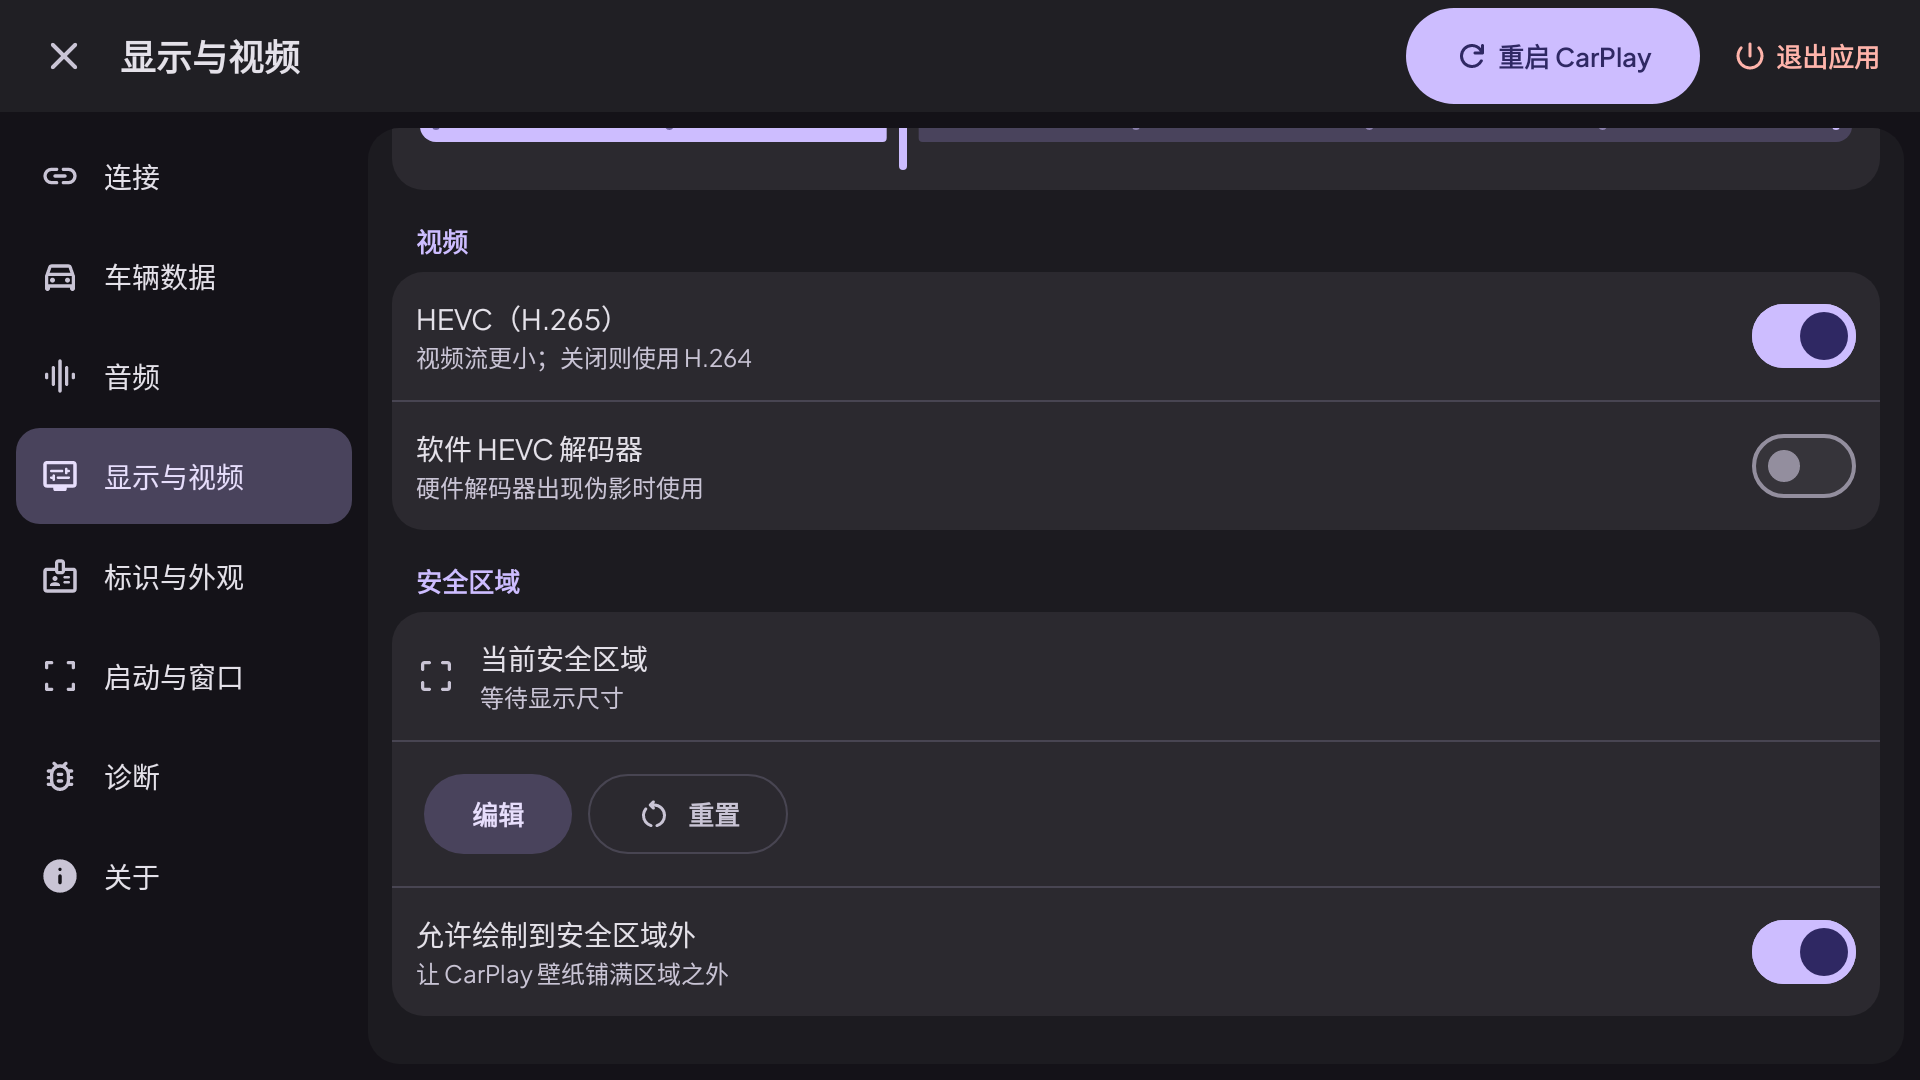
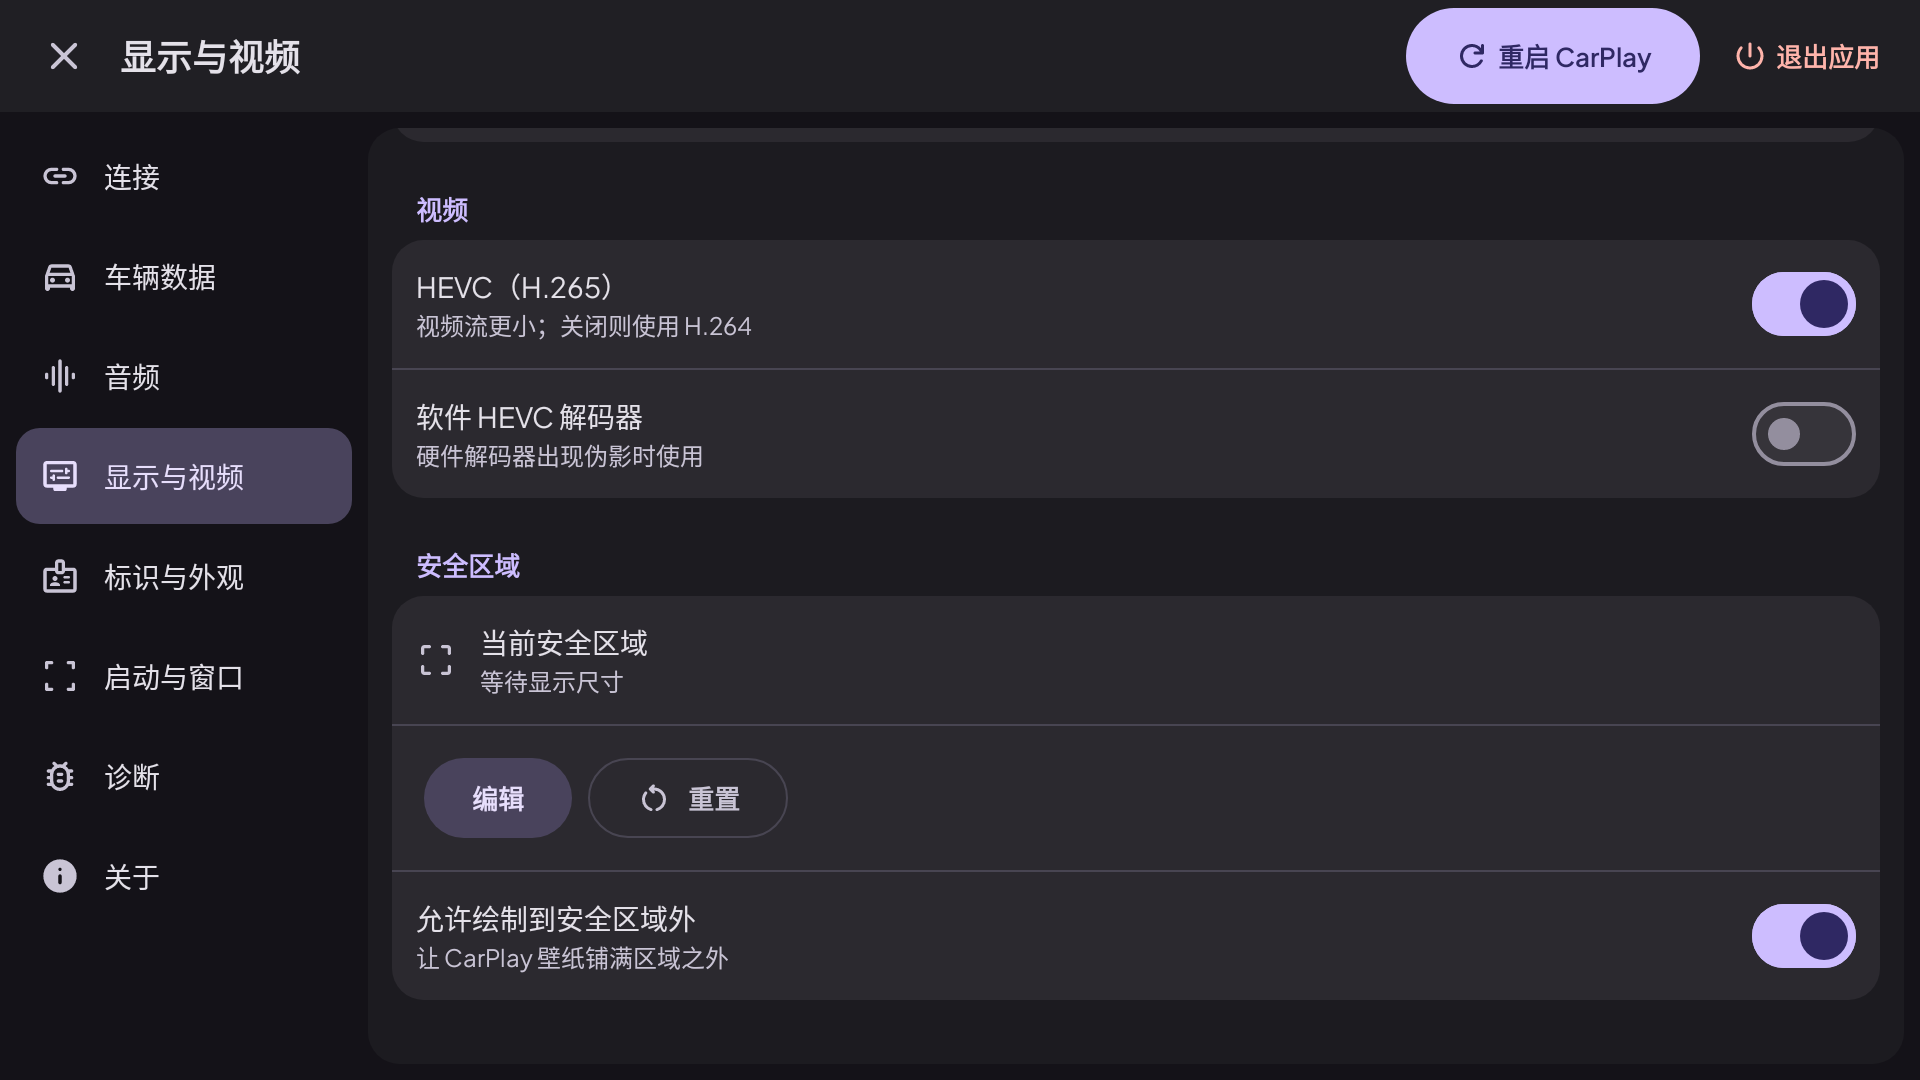
docs: publish corrected settings gallery and validation results [skip ci]

diff --git a/README.md b/README.md
@@ -212,6 +212,8 @@ Without the key, only an explicit `-Pxcertplay.allowUnsigned=true` can produce u
 
 ## Verification and feedback
 
+The [screenshot-feedback validation](https://github.com/whoyang233/xcertplay/actions/runs/39567775549) from source `47d6c78538027ce20dd7389d7252677573bfa875` passes **421 tests with zero failures, errors or skips; lint has no errors and retains 82 common / 3 automotive warnings**. Coverage includes card separation, ADB button insets/actions, removed usage preference migration, numbered streams and navigation gain, plus existing audio/video/connection regressions. [Updated complete gallery](docs/SETTINGS_SCREENSHOTS.zh-CN.md) · [Reports](https://github.com/whoyang233/xcertplay/actions/runs/39567775549/artifacts/12331110976). Signing, APK assembly, verification and upload are skipped. Captures are test previews; vehicle routing and connections need device validation.
+
 The [source-only UI/buffer validation from 2026-10-21](https://github.com/whoyang233/xcertplay/actions/runs/39561641865), source `3b228560ebb64c98b69d7d0fc72c24344102cfe6`, passes **418 tests with no failures, errors or skips; lint has no errors and retains 82 common / 3 automotive warnings**. Coverage includes actual settings pages, video preset draft/save/reload, immediate audio startup, decoded-output catch-up/static frames, one-frame backpressure, and absent Web classes/dependencies. Signing, APK assembly, APK verification and APK upload are explicitly skipped. [Screenshots and configuration notes](docs/UI_BUFFER_SETTINGS.zh-CN.md) · [Complete reports/captures](https://github.com/whoyang233/xcertplay/actions/runs/39561641865/artifacts/12328316122). Captures use an Android 13 / API 33 Full-HD test environment; vehicle latency and firmware behavior still need device validation.
 
 The following record describes the previously downloadable APK; this update produces no new APK.

diff --git a/docs/SETTINGS_SCREENSHOTS.zh-CN.md b/docs/SETTINGS_SCREENSHOTS.zh-CN.md
@@ -2,9 +2,9 @@
 
 这是当前个人版设置的 1080P 测试环境预览，覆盖 8 个设置分类，并补充高级无线连接和音质子页面。每组按滚动顺序从上到下排列，相邻图片保留部分重叠。图片编号可用于指定下一步调整，例如「D2：导航音量移到更靠前」。
 
-本轮只补截图，不改应用界面、配置值、默认值或运行逻辑，不打包 APK。预览版本为 1.4.2B，Android 13 / API 33，1920×1080 / 320 DPI。为展示条件项，测试模拟 automotive 高级声道设置和已安装的比亚迪通话组件；不代表实际车机组件或 ADB 能力已经验证。音质页使用明确的示例格式能力，不替代车机实际检测结果。
+本轮根据标注调整卡片间距、ADB 按钮及状态占位，移除音乐/导航两个用途绑定选择（保留编号通道和导航增益），补充标识与外观说明；不打包 APK。预览版本为 1.4.2B，Android 13 / API 33，1920×1080 / 320 DPI。为展示条件项，测试模拟 automotive 高级声道设置和已安装的比亚迪通话组件；不代表实际车机组件或 ADB 能力已经验证。音质页使用明确的示例格式能力，不替代车机实际检测结果。
 
-来源：源码 `0f09f25fb48992bceb35e410f54b442145a3ca10`，[仅验证任务](https://github.com/whoyang233/xcertplay/actions/runs/39564282914)。419 项测试通过，无失败、错误或跳过；签名、APK 打包与上传均跳过。
+来源：源码 `47d6c78538027ce20dd7389d7252677573bfa875`，[仅验证任务](https://github.com/whoyang233/xcertplay/actions/runs/39567775549)。421 项测试通过，无失败、错误或跳过；签名、APK 打包与上传均跳过。
 
 | 编号 | 页面 | 图片数量 |
 | --- | --- | --- |

diff --git a/README.zh-CN.md b/README.zh-CN.md
@@ -221,6 +221,8 @@ Windows PowerShell：
 
 ## 验证状态与问题反馈
 
+2026-10-21 的[截图反馈修正验证](https://github.com/whoyang233/xcertplay/actions/runs/39567775549)来自源码 `47d6c78538027ce20dd7389d7252677573bfa875`：**421 项测试通过，失败、错误、跳过均为 0；Lint 无错误，保留 common 82 / automotive 3 条警告。** 覆盖卡片分隔、ADB 按钮间距和点击、旧用途绑定清理、编号通道与导航增益，以及既有音视频缓冲和连接回归。[新版完整图库](docs/SETTINGS_SCREENSHOTS.zh-CN.md) · [完整报告](https://github.com/whoyang233/xcertplay/actions/runs/39567775549/artifacts/12331110976)。本次明确跳过签名、APK 打包、APK 校验与 APK 上传；截图来自测试环境，实车路由和连接仍需验收。
+
 2026-10-21 的[界面/缓冲仅验证任务](https://github.com/whoyang233/xcertplay/actions/runs/39561641865)来自源码 `3b228560ebb64c98b69d7d0fc72c24344102cfe6`：**418 项测试全部通过，无失败、错误或跳过；Lint 无错误，保留 common 82 / automotive 3 条警告。** 覆盖实际设置页、视频所有档位的草稿/保存/重载、音频 0 ms 首帧启动、解码输出追赶与静止帧保留、单帧队列背压及 Web 类/依赖缺席。签名、APK 打包、APK 校验和上传步骤均明确跳过。[页面截图与配置说明](docs/UI_BUFFER_SETTINGS.zh-CN.md) · [完整验证报告和截图](https://github.com/whoyang233/xcertplay/actions/runs/39561641865/artifacts/12328316122)。截图为 Android 13 / API 33 的 1080P 测试预览，不能替代实车延迟或固件兼容验证。
 
 以下为此前可下载 APK 的历史验证记录；本轮未生成新 APK。
